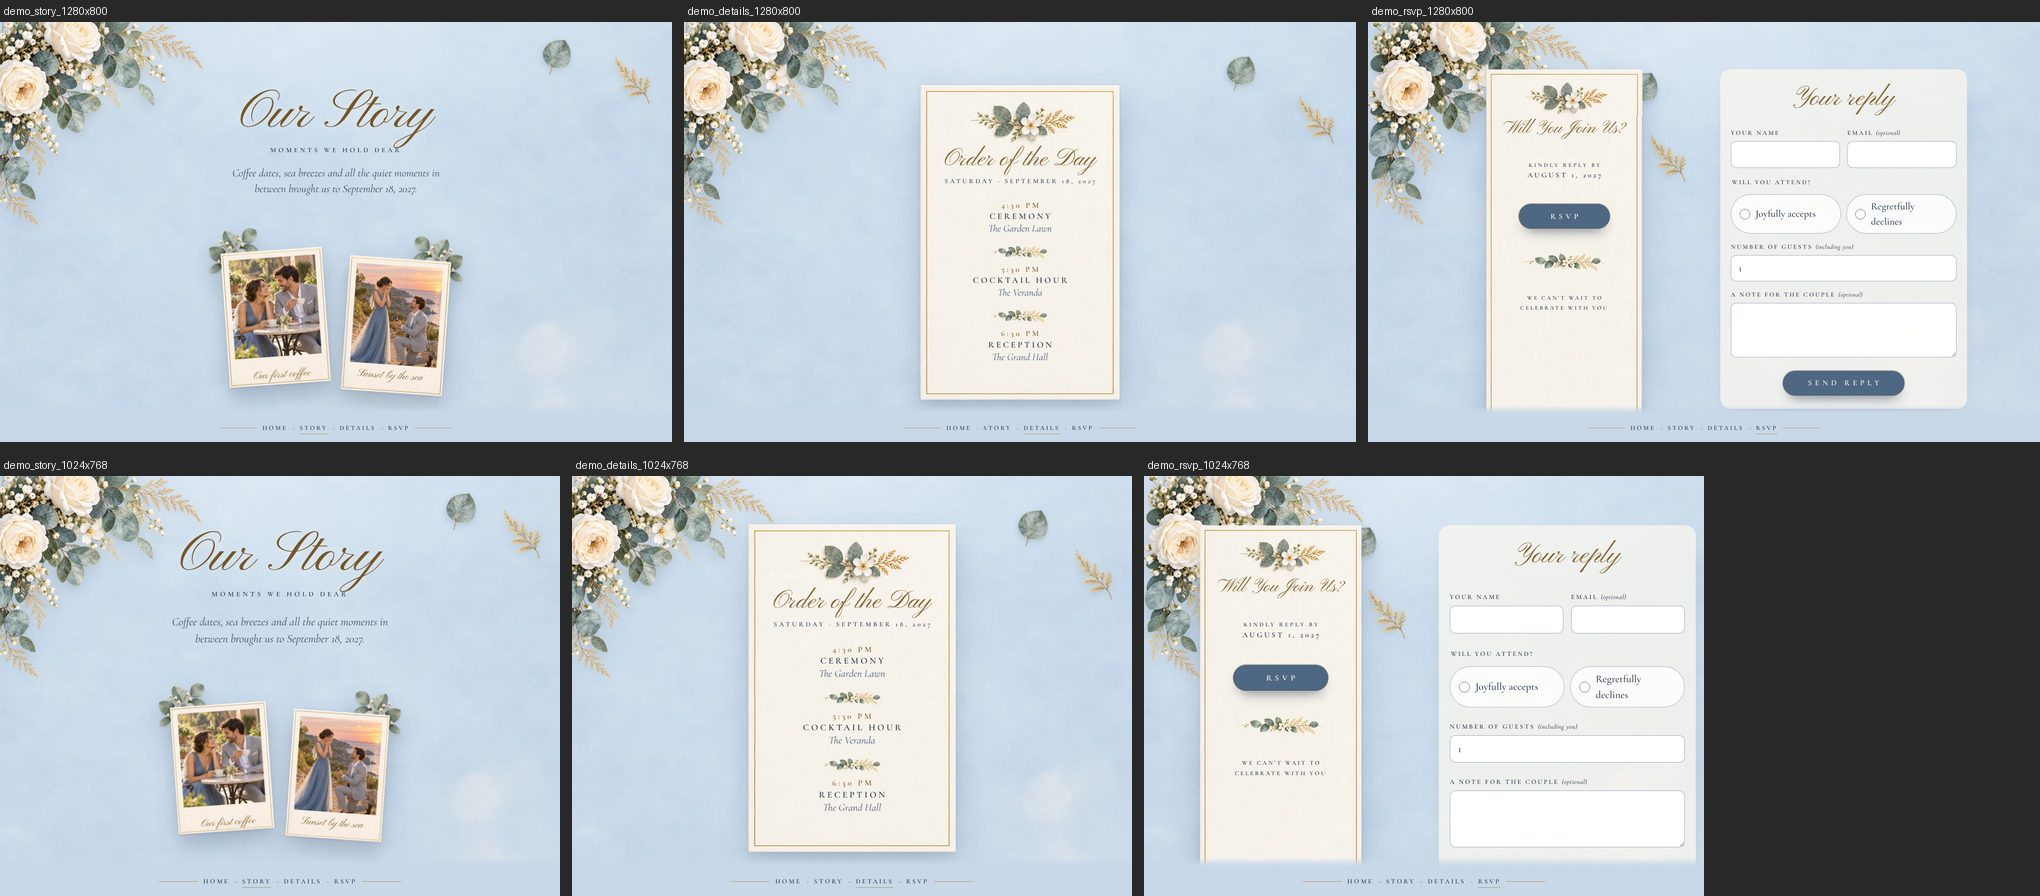
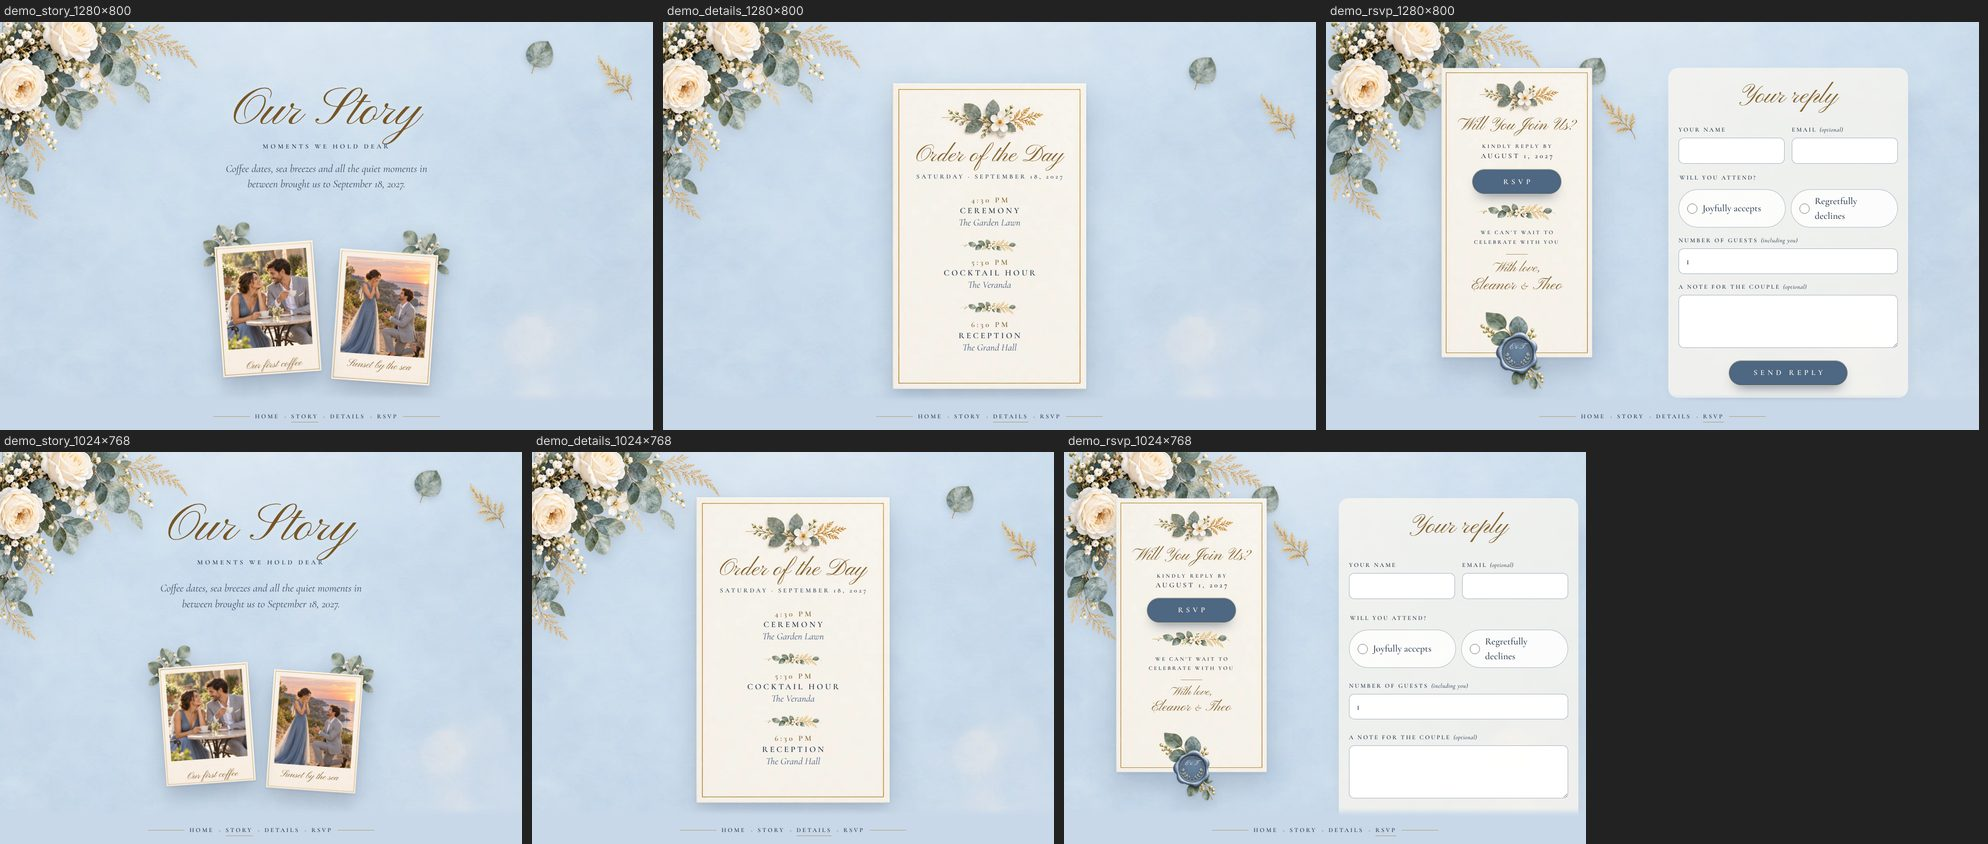
G402 final QA: önizlemeler, komut sonuçları; home → zarf nav çıkışı (G068 denetimi)
- previews/g402: qa_inner_desktop.jpg yenilendi, final_rsvp_1280x800.png, final_rsvp_390x844_range.png,
  final_home_390x844_range.png
- site.css: ::view-transition-old(site-nav):only-child (G068 birleştirmesindeki yeni theme-check denetimi)
- Sonuç: npm test 553/553, theme-check --stress 117/0/2, g051 44/44, final-smoke 45/45; durum inceleme

Claude-Session: https://claude.ai/code/session_01DggDrVhqkPM3r57J4JpXEN

diff --git a/platform/tests/theme-dusty-blue-champagne.test.ts b/platform/tests/theme-dusty-blue-champagne.test.ts
@@ -1044,6 +1044,8 @@ test('G402 QA: every inner-page piece ends above the nav or starts below the fir
   assert.match(rule('.rsvp-text .sign'), /font-size: max\(19px, 11cqw \* var\(--fit, 1\) \* var\(--sg\)\)/);
   assert.match(rule('.card-seal'), /bottom: calc\(-21cqw \* var\(--sg\)\); width: calc\(42cqw \* var\(--sg\)\)/);
   assert.match(js, /if \(cw > 296 \|\| \(k < \.73 && rt <= 64 && cw > 240\)\)[^\n]*\n\s+else if \(k > \.73\)[^\n]*--sg[^\n]*\n\s+else if \(rt > 64\)[^\n]*--rt[^\n]*\n\s+else \{ clear\(\); break; \}/);
+  // home → envelope page (no nav there): the old nav leaves at once, not fading over the envelope (theme-check G068 check)
+  assert.match(css, /::view-transition-old\(site-nav\):only-child \{ animation: none; opacity: 0; \}/);
   // hero: a cluster never under the hero text (16 × 16 alpha map of each florals_* part), a float on the text hides
   assert.match(js, /bg\.querySelectorAll\('\.corner'\)[\s\S]*?for \(let k = \.94, w = c\.offsetWidth; ts\.some\(\(t\) => under\(box\(c\), t, m\)\); k -= \.06\)/);
   const land = /@media \(min-aspect-ratio: 1\/1\) and \(max-height: 620px\) \{([\s\S]*?)\n\}/.exec(css)![1];

diff --git a/platform/themes/dusty-blue-champagne/site.css b/platform/themes/dusty-blue-champagne/site.css
@@ -273,6 +273,7 @@ html[data-preview="true"] .photo-slot:not([data-photo-state]) > .ph-mark {
 ::view-transition-group(invite-card) { animation-duration: .9s; animation-timing-function: cubic-bezier(.4, 0, .2, 1); }
 ::view-transition-old(root), ::view-transition-new(root) { animation-duration: .55s; }
 ::view-transition-new(site-nav):only-child { animation: none; }
+::view-transition-old(site-nav):only-child { animation: none; opacity: 0; }
 .hero .names { margin-top: clamp(14px, 3.6svh, 36px); font-size: calc(var(--hn) * var(--names-scale, 1)); line-height: 1.08; text-wrap: balance; overflow-wrap: anywhere; }
 .hero-date { margin-top: calc(var(--hn) * .14); font-size: 13px; letter-spacing: .3em; }
 .hero-venue { margin-top: 8px; font-style: italic; font-weight: 500; font-size: clamp(22px, 6.4vw, 30px); line-height: 1.2; color: var(--blue-ink); text-wrap: balance; overflow-wrap: anywhere; }

diff --git a/gorevler/G402-website-kaynak.md b/gorevler/G402-website-kaynak.md
@@ -230,7 +230,20 @@ Rose & Maximilian James") / §12 stres.
    düşüyor (denendi). Statik testler: `fitCard` adımları, `--sg` kuralları, 2,12 kuralının yokluğu, `foldAll` sırası.
 4. **Bütçe:** `site.js` 35 775 B (KiB sınırı 35 840; yer açmak için yorumlar kısaldı, sayaç saat dilimi yardımcısı tek işlev,
    `fitLines`/`fitInvite` ortak `shrink`, devRender ve küçük yerler sıkıştı — davranış aynı, bütün testler/ölçümler yeniden
-   koşuldu), `site.css` 45 925 B (sınır 46 080). Pay çok az (65 / 155 B).
+   koşuldu), `site.css` 46 001 B (sınır 46 080). Pay çok az (65 / 79 B).
+5. **Ek (bulgu dışı, G068 birleştirmesinin yeni denetimi):** origin/main'deki G068 theme-check'e "nav leaving the envelope page"
+   denetimini ekledi; bu tema 390×844 / 360×640'ta düşüyordu (home → zarf sayfasında eski nav %2,5 / %3,8 görünüyordu). 01'deki
+   tek satır eklendi: `::view-transition-old(site-nav):only-child { animation: none; opacity: 0; }` (+ statik test).
+6. **Komutlar** (origin/main — G068 — birleştirildikten sonra, Node 22): `npm test` **553/553** · `npm run typecheck` temiz ·
+   `npm run build` + trace-check (16 rota, 6 tema) · `theme-check --theme dusty-blue-champagne --stress --no-video` **117 geçti /
+   0 hata / 2 uyarı** (uyarılar: G075 teşekkür modu ve G068 `copy` bu temada yok — G081 kapsamı; birleştirmeden sonraki ilk koşuda
+   yukarıdaki nav çıkışı 2 hata verdi, düzeltmeden sonra 0; içerik değişimi adımı geçti — "Theo" yanlış alarmı bu koşuda
+   görülmedi) · dokun → home 3 950 ms · ilk görünüm DPR 3: index 920 / home 1014 KB yer tutucuyla, 981 / 1149 KB örnek
+   fotoğraflarla · `g051-browser --theme` 44/44 · `final-smoke --theme` 45/45 (çıktılar geçici klasörde). Önizlemeler
+   (`previews/g402/`, `next start` + tohumlanmış örnek fotoğraflı siteler): `qa_inner_desktop.jpg` yenilendi (1280×800 ve
+   1024×768'de RSVP kartı + mühür + form tam), yeni `final_rsvp_1280x800.png` (demo), `final_rsvp_390x844_range.png`,
+   `final_home_390x844_range.png`. **Denenmedi:** gerçek iPhone/Safari ve Android Chrome, yayın, yavaş ağ, gerçek alıcı
+   fotoğrafları; qa-kontrol bu turda yeniden koşturulmadı (bağımsız QA'nın yeniden ölçmesi gerekiyor).
 
 ## Günlük
 - 2026-10-13 yeniden tanımlandı (K22–K24, G033)

diff --git a/platform/themes/dusty-blue-champagne/README.md b/platform/themes/dusty-blue-champagne/README.md
@@ -325,7 +325,7 @@ davet bölümü de aynı kurala uyar (`site.js` `foldAll`):
 - Yazılım bütçesi (docs/11 §6; KiB, 01 / 03 / 05 testleri gibi): `site.css` ≤ 46 080 B, `site.js` ≤ 35 840 B (test denetler).
   Final QA düzeltmelerinden sonra `site.js` 35 775 B (pay 65 B; fitCard + decor için yorumlar kısaldı, sayaç saat dilimi
   yardımcısı tek işlev, `fitLines`/`fitInvite` tek `shrink` döngüsü, devRender sıkıştı — davranış aynı, testler ve ölçümler
-  yeniden koşuldu), `site.css` 45 925 B (pay 155 B); ikisi de 1000 B okumasıyla bütçenin üstünde. Pay çok az.
+  yeniden koşuldu), `site.css` 46 001 B (pay 79 B; G068 birleştirmesinden sonra nav çıkış kuralı eklendi); ikisi de 1000 B okumasıyla bütçenin üstünde. Pay çok az.
 - RSVP kartı 320×568'de ve yatay telefonda (667×375, 844×390) ilk ekrana hiçbir kayıtla sığmaz (240 px + `--sg` 0,72 ile bile);
   orada kart tam boyda katlanır, kartın içinde tek bir 53–70 px boşluk kalır (yukarıda "RSVP kartı + mühür ilk ekranda").
 - Aksanlı isimler: Pinyon Script ve Cormorant Garamond'un Google Fonts CSS yanıtında `latin-ext` bloğu var (docs/11 §12).
